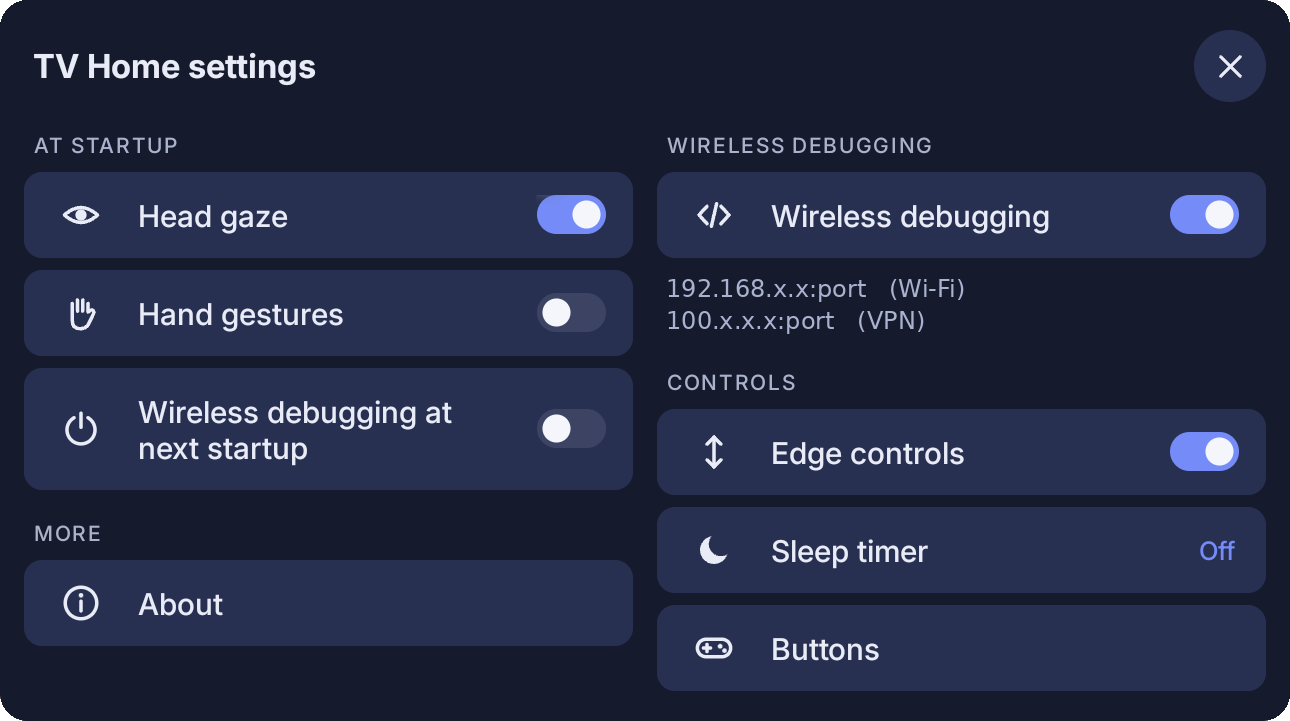
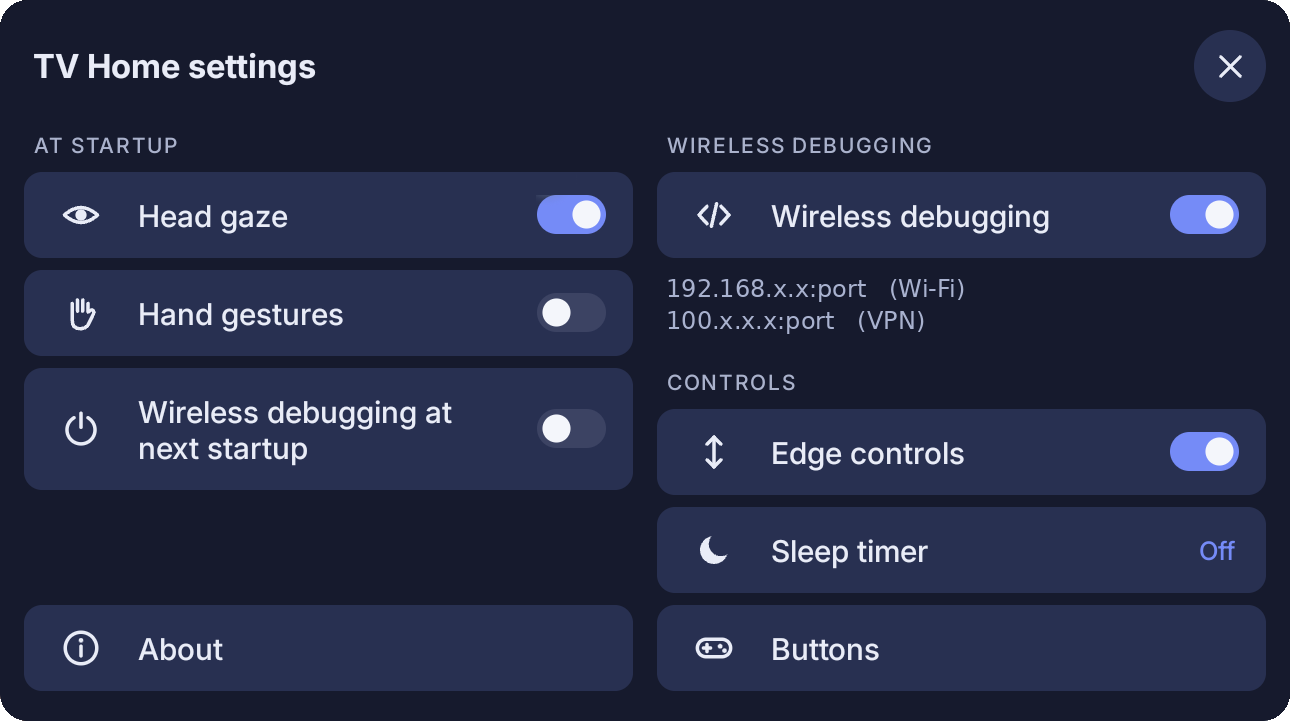
README: screenshots of the edge scrollbar and media bar; settings shot updated
Claude-Session: https://claude.ai/code/session_01VUf44TcDJLfxdnnXui99Bk

Changed region(s): [[0.0, 0.7323, 0.4961, 0.9764]]

diff --git a/README.md b/README.md
@@ -406,7 +406,12 @@ Head gaze can point and click but not drag, which makes long lists, web pages an
 - **Double-click** a half to jump to the top or the bottom.
 - **Press and drag** along it to scroll continuously; the further you drag, the faster it goes.
 
-While something is **playing**, a **media bar** also appears in the middle of the screen: previous, back 10 seconds, play/pause, forward 10 seconds, next. When nothing plays it stays hidden. In YouTube, which ignores the standard skip keys, the skip buttons double-tap the left or right part of the player, exactly as you would with a finger (10 seconds by default, adjustable in YouTube's settings); other apps get the standard media keys and choose their own skip length.
+<p align="center"><img src="docs/img/edge-scroll.png" alt="The edge scrollbar: top half scrolls up, bottom half scrolls down" height="300"></p>
+
+While something is **playing**, a **media bar** also appears in the middle of the screen: previous, back 10 seconds, play/pause, forward 10 seconds, next. When nothing plays it stays hidden.
+
+<p align="center"><img src="docs/img/edge-media.png" alt="The media bar: previous, back, play/pause, forward, next" width="420"></p>
+ In YouTube, which ignores the standard skip keys, the skip buttons double-tap the left or right part of the player, exactly as you would with a finger (10 seconds by default, adjustable in YouTube's settings); other apps get the standard media keys and choose their own skip length.
 
 Both stay open while you use them, and close on a click anywhere else or 3 seconds after the cursor was last on them. A cursor that only sweeps past the edge does not open them: it has to rest there for a moment. Switch the feature off in Settings if you never want it. Neckband buttons cannot open them, because Viture keeps the volume buttons for itself while head gaze is on.
 
